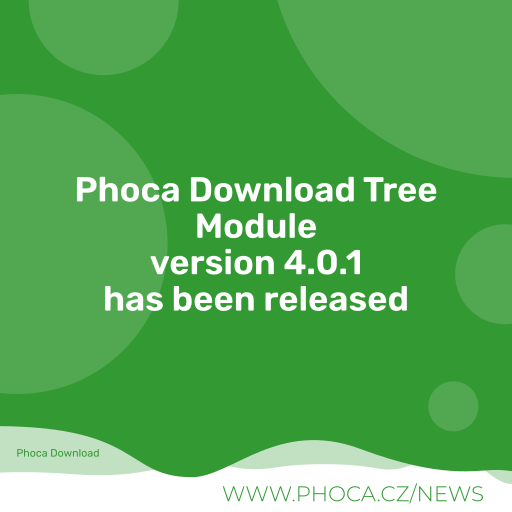
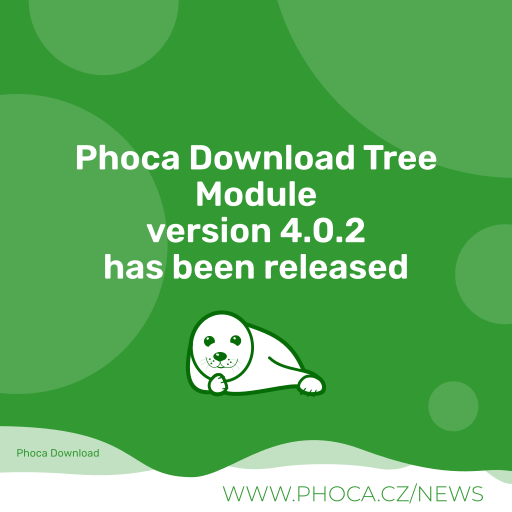
4.0.2

Changed region(s): [[0.125, 0.2812, 0.875, 0.7812]]

diff --git a/mod_phocadownload_tree.php b/mod_phocadownload_tree.php
@@ -37,7 +37,7 @@ $document	= JFactory::getDocument();
 $paramsC		= JComponentHelper::getParams('com_phocadownload') ;
 $category_ordering		= $paramsC->get( 'category_ordering', 1 );
 $categoryOrdering 		= PhocaDownloadOrdering::getOrderingText($category_ordering, 2);
-$moduleclass_sfx 			= htmlspecialchars($params->get('moduleclass_sfx'), ENT_COMPAT, 'UTF-8');
+$moduleclass_sfx 			= htmlspecialchars((string)$params->get('moduleclass_sfx'), ENT_COMPAT, 'UTF-8');
 HTMLHelper::_('stylesheet', 'media/mod_phocadownload_tree/jstree/themes/proton/style.min.css', array('version' => 'auto'));
 HTMLHelper::_('script', 'media/mod_phocadownload_tree/jstree/jstree.min.js', array('version' => 'auto'));
 

diff --git a/README.MD b/README.MD
@@ -58,7 +58,7 @@ Phoca Download Tree Module is a Joomla! module which displays category tree of P
 
 ## Version (Joomla! 4.x)
 
-4.0.1
+4.0.2
 
 
 
